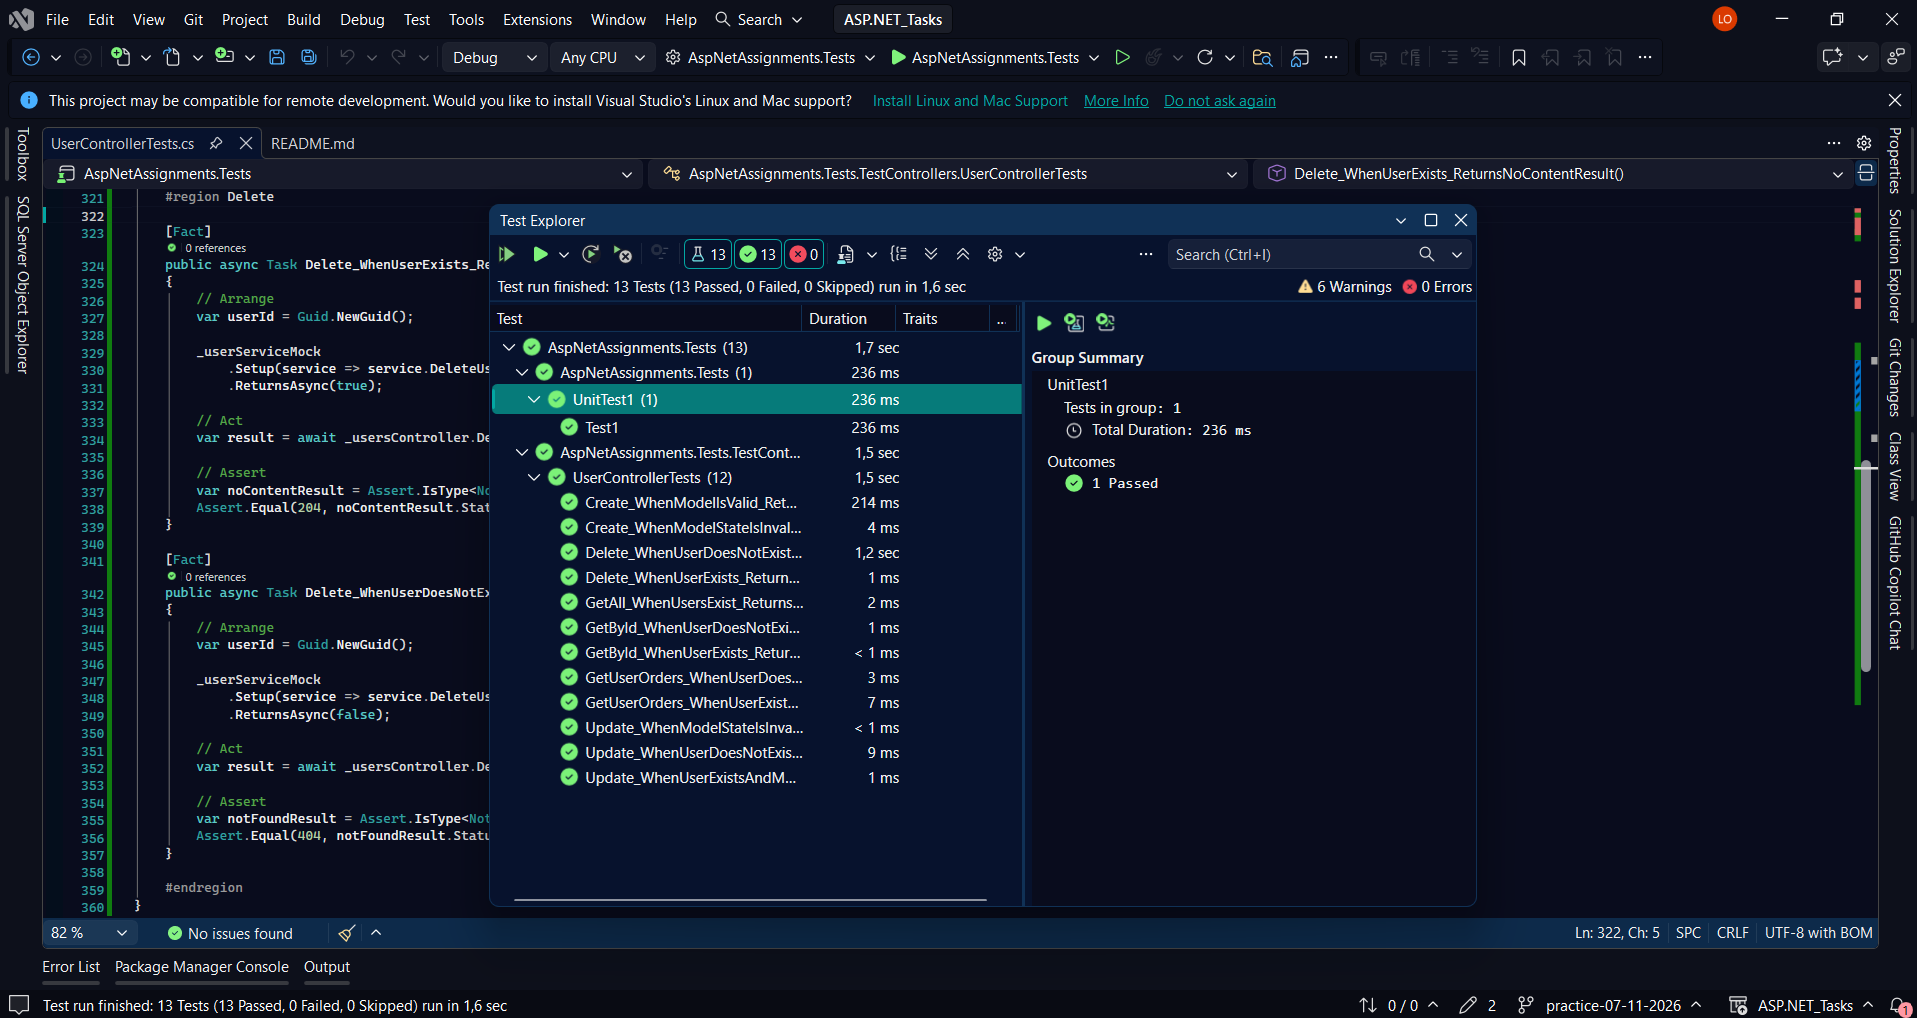
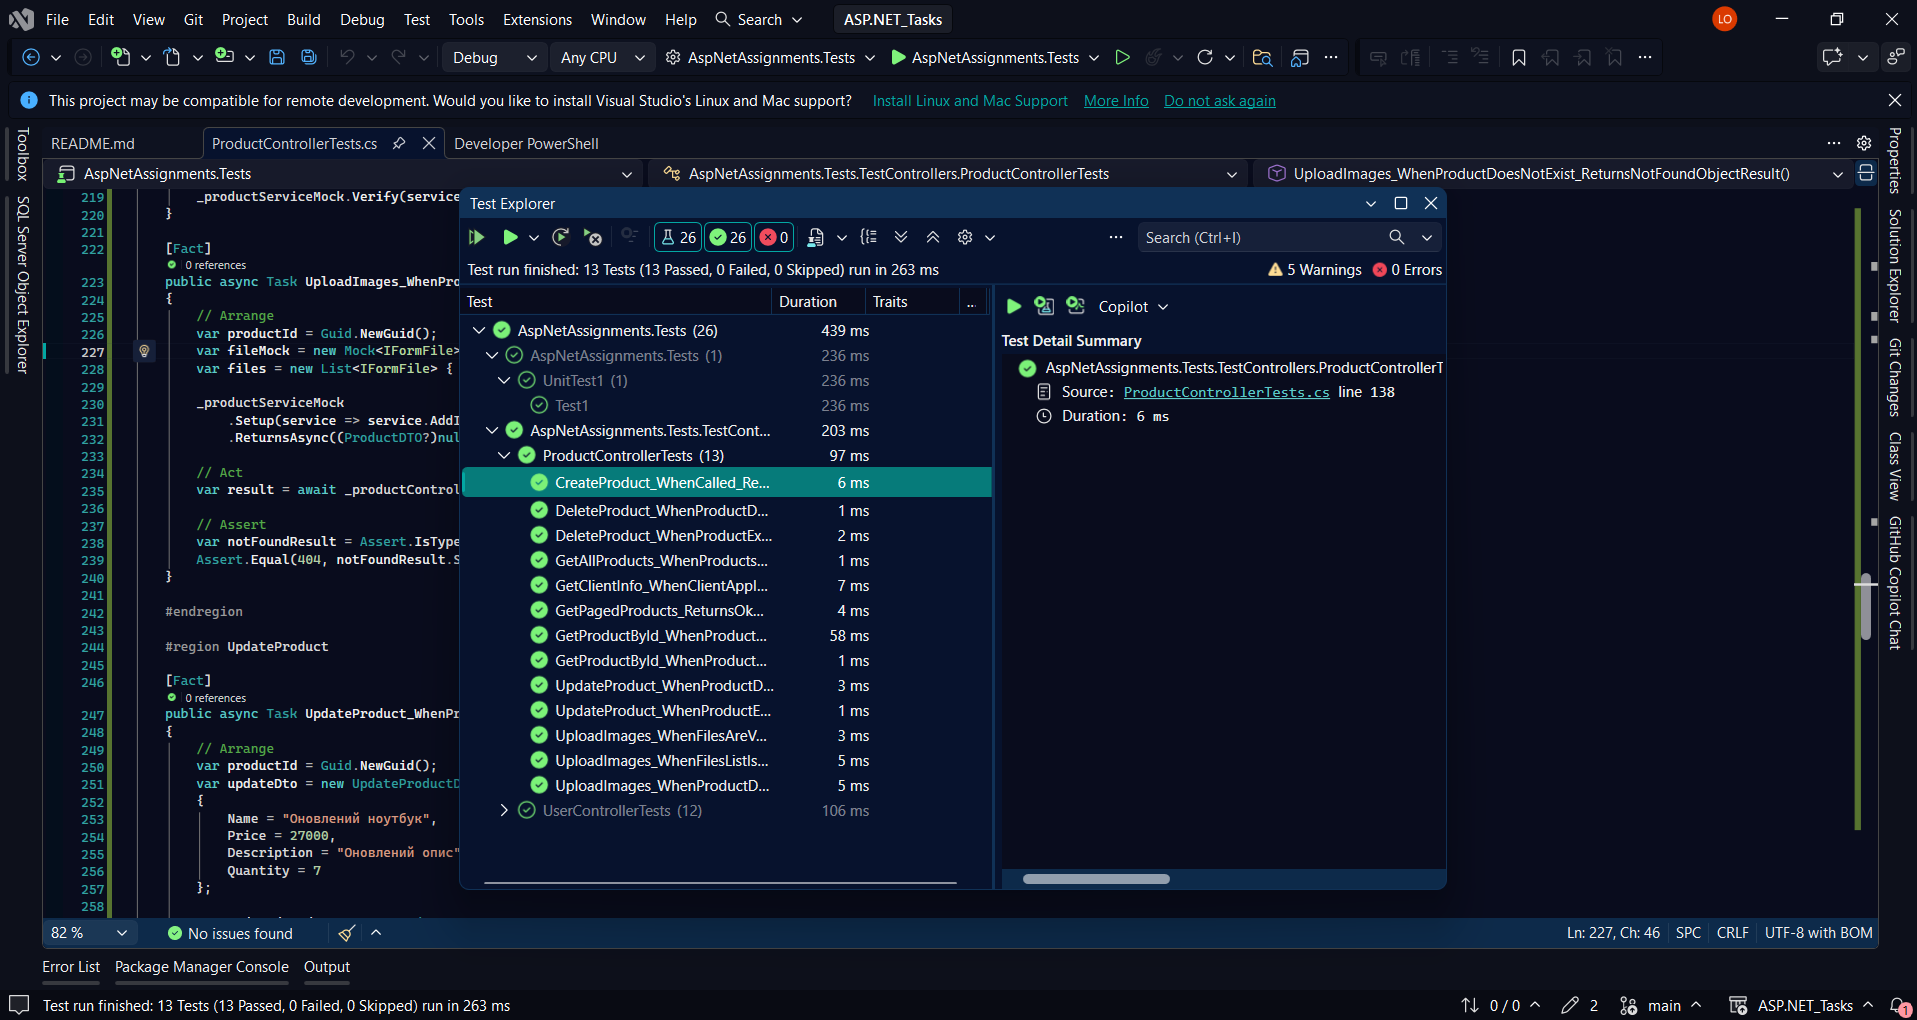
feat(hw-07-11-2026): Create unit tests for each endpoint in ProductController.

diff --git a/AspNetAssignments.Tests/TestControllers/ProductControllerTests.cs b/AspNetAssignments.Tests/TestControllers/ProductControllerTests.cs
@@ -1,0 +1,371 @@
+using AspNetAssignments.Controllers;
+using AspNetAssignments.DTOs.Pagination;
+using AspNetAssignments.DTOs.Product;
+using AspNetAssignments.Services.Abstract;
+using Microsoft.AspNetCore.Http;
+using Microsoft.AspNetCore.Mvc;
+using Moq;
+
+namespace AspNetAssignments.Tests.TestControllers;
+
+public class ProductControllerTests
+{
+    private readonly ProductController _productController;
+    private readonly Mock<IProductService> _productServiceMock;
+
+    public ProductControllerTests()
+    {
+        _productServiceMock = new Mock<IProductService>();
+        _productController = new ProductController(_productServiceMock.Object);
+    }
+
+    #region GetPagedProducts
+
+    [Fact]
+    public async Task GetPagedProducts_ReturnsOkObjectResult_WithPageResponse()
+    {
+        // Arrange
+        var queryParams = new ProductQueryParams
+        {
+            PageNumber = 1,
+            PageSize = 10
+        };
+
+        var items = new List<ProductDTO>
+        {
+            new ProductDTO { Id = Guid.NewGuid(), Name = "Ноутбук", Price = 25000, Quantity = 5 },
+            new ProductDTO { Id = Guid.NewGuid(), Name = "Мишка", Price = 800, Quantity = 20 }
+        };
+
+        var pagedResponse = new PageResponse<ProductDTO>(items, totalCount: 2, pageNumber: 1, pageSize: 10);
+
+        _productServiceMock
+            .Setup(service => service.GetPagedAsync(queryParams))
+            .ReturnsAsync(pagedResponse);
+
+        // Act
+        var result = await _productController.GetPagedProducts(queryParams);
+
+        // Assert
+        var okResult = Assert.IsType<OkObjectResult>(result);
+        Assert.Equal(200, okResult.StatusCode);
+        var returnedPage = Assert.IsType<PageResponse<ProductDTO>>(okResult.Value);
+        Assert.Equal(2, returnedPage.Items.Count);
+    }
+
+    #endregion
+
+    #region GetAllProducts
+
+    [Fact]
+    public async Task GetAllProducts_WhenProductsExist_ReturnsOkObjectResult()
+    {
+        // Arrange
+        var products = new List<ProductDTO>
+        {
+            new ProductDTO { Id = Guid.NewGuid(), Name = "Клавіатура", Price = 1500, Quantity = 12 },
+            new ProductDTO { Id = Guid.NewGuid(), Name = "Монітор", Price = 9000, Quantity = 4 }
+        };
+
+        _productServiceMock
+            .Setup(service => service.GetAllProductsAsync())
+            .ReturnsAsync(products);
+
+        // Act
+        var result = await _productController.GetAllProducts();
+
+        // Assert
+        var okResult = Assert.IsType<OkObjectResult>(result);
+        Assert.Equal(200, okResult.StatusCode);
+        var returnedProducts = Assert.IsAssignableFrom<IEnumerable<ProductDTO>>(okResult.Value);
+        Assert.Equal(2, returnedProducts.Count());
+    }
+
+    #endregion
+
+    #region GetProductById
+
+    [Fact]
+    public async Task GetProductById_WhenProductExists_ReturnsOkObjectResult()
+    {
+        // Arrange
+        var productId = Guid.NewGuid();
+        var product = new ProductDTO
+        {
+            Id = productId,
+            Name = "Навушники",
+            Price = 3200,
+            Quantity = 8
+        };
+
+        _productServiceMock
+            .Setup(service => service.GetProductByIdAsync(productId))
+            .ReturnsAsync(product);
+
+        // Act
+        var result = await _productController.GetProductById(productId);
+
+        // Assert
+        var okResult = Assert.IsType<OkObjectResult>(result);
+        Assert.Equal(200, okResult.StatusCode);
+        var returnedProduct = Assert.IsType<ProductDTO>(okResult.Value);
+        Assert.Equal(productId, returnedProduct.Id);
+    }
+
+    [Fact]
+    public async Task GetProductById_WhenProductDoesNotExist_ReturnsNotFoundObjectResult()
+    {
+        // Arrange
+        var productId = Guid.NewGuid();
+
+        _productServiceMock
+            .Setup(service => service.GetProductByIdAsync(productId))
+            .ReturnsAsync((ProductDTO?)null);
+
+        // Act
+        var result = await _productController.GetProductById(productId);
+
+        // Assert
+        var notFoundResult = Assert.IsType<NotFoundObjectResult>(result);
+        Assert.Equal(404, notFoundResult.StatusCode);
+    }
+
+    #endregion
+
+    #region CreateProduct
+
+    [Fact]
+    public async Task CreateProduct_WhenCalled_ReturnsCreatedAtActionResult()
+    {
+        // Arrange
+        var createDto = new CreateProductDTO
+        {
+            Name = "Смартфон",
+            Price = 18500,
+            Description = "Нова модель",
+            Quantity = 15
+        };
+
+        var createdProduct = new ProductDTO
+        {
+            Id = Guid.NewGuid(),
+            Name = createDto.Name,
+            Price = createDto.Price,
+            Description = createDto.Description,
+            Quantity = createDto.Quantity
+        };
+
+        _productServiceMock
+            .Setup(service => service.CreateProductAsync(createDto))
+            .ReturnsAsync(createdProduct);
+
+        // Act
+        var result = await _productController.CreateProduct(createDto);
+
+        // Assert
+        var createdResult = Assert.IsType<CreatedAtActionResult>(result);
+        Assert.Equal(201, createdResult.StatusCode);
+        Assert.Equal(nameof(ProductController.GetProductById), createdResult.ActionName);
+        var returnedProduct = Assert.IsType<ProductDTO>(createdResult.Value);
+        Assert.Equal(createdProduct.Id, returnedProduct.Id);
+    }
+
+    #endregion
+
+    #region UploadImages
+
+    [Fact]
+    public async Task UploadImages_WhenFilesAreValidAndProductExists_ReturnsOkObjectResult()
+    {
+        // Arrange
+        var productId = Guid.NewGuid();
+        var fileMock = new Mock<IFormFile>();
+        var files = new List<IFormFile> { fileMock.Object };
+
+        var updatedProduct = new ProductDTO
+        {
+            Id = productId,
+            Name = "Планшет",
+            Images = new List<string> { "/images/products/photo1.jpg" }
+        };
+
+        _productServiceMock
+            .Setup(service => service.AddImagesAsync(productId, files))
+            .ReturnsAsync(updatedProduct);
+
+        // Act
+        var result = await _productController.UploadImages(productId, files);
+
+        // Assert
+        var okResult = Assert.IsType<OkObjectResult>(result);
+        Assert.Equal(200, okResult.StatusCode);
+        var returnedProduct = Assert.IsType<ProductDTO>(okResult.Value);
+        Assert.Single(returnedProduct.Images);
+    }
+
+    [Fact]
+    public async Task UploadImages_WhenFilesListIsEmpty_ReturnsBadRequestObjectResult()
+    {
+        // Arrange
+        var productId = Guid.NewGuid();
+        var emptyFiles = new List<IFormFile>();
+
+        // Act
+        var result = await _productController.UploadImages(productId, emptyFiles);
+
+        // Assert
+        var badRequestResult = Assert.IsType<BadRequestObjectResult>(result);
+        Assert.Equal(400, badRequestResult.StatusCode);
+        _productServiceMock.Verify(service => service.AddImagesAsync(It.IsAny<Guid>(), It.IsAny<List<IFormFile>>()), Times.Never);
+    }
+
+    [Fact]
+    public async Task UploadImages_WhenProductDoesNotExist_ReturnsNotFoundObjectResult()
+    {
+        // Arrange
+        var productId = Guid.NewGuid();
+        var fileMock = new Mock<IFormFile>();
+        var files = new List<IFormFile> { fileMock.Object };
+
+        _productServiceMock
+            .Setup(service => service.AddImagesAsync(productId, files))
+            .ReturnsAsync((ProductDTO?)null);
+
+        // Act
+        var result = await _productController.UploadImages(productId, files);
+
+        // Assert
+        var notFoundResult = Assert.IsType<NotFoundObjectResult>(result);
+        Assert.Equal(404, notFoundResult.StatusCode);
+    }
+
+    #endregion
+
+    #region UpdateProduct
+
+    [Fact]
+    public async Task UpdateProduct_WhenProductExists_ReturnsOkObjectResult()
+    {
+        // Arrange
+        var productId = Guid.NewGuid();
+        var updateDto = new UpdateProductDTO
+        {
+            Name = "Оновлений ноутбук",
+            Price = 27000,
+            Description = "Оновлений опис",
+            Quantity = 7
+        };
+
+        var updatedProduct = new ProductDTO
+        {
+            Id = productId,
+            Name = updateDto.Name,
+            Price = updateDto.Price,
+            Description = updateDto.Description,
+            Quantity = updateDto.Quantity
+        };
+
+        _productServiceMock
+            .Setup(service => service.UpdateProductAsync(productId, updateDto))
+            .ReturnsAsync(updatedProduct);
+
+        // Act
+        var result = await _productController.UpdateProduct(productId, updateDto);
+
+        // Assert
+        var okResult = Assert.IsType<OkObjectResult>(result);
+        Assert.Equal(200, okResult.StatusCode);
+        var returnedProduct = Assert.IsType<ProductDTO>(okResult.Value);
+        Assert.Equal(updateDto.Name, returnedProduct.Name);
+    }
+
+    [Fact]
+    public async Task UpdateProduct_WhenProductDoesNotExist_ReturnsNotFoundObjectResult()
+    {
+        // Arrange
+        var productId = Guid.NewGuid();
+        var updateDto = new UpdateProductDTO
+        {
+            Name = "Неіснуючий товар",
+            Price = 100,
+            Quantity = 1
+        };
+
+        _productServiceMock
+            .Setup(service => service.UpdateProductAsync(productId, updateDto))
+            .ReturnsAsync((ProductDTO?)null);
+
+        // Act
+        var result = await _productController.UpdateProduct(productId, updateDto);
+
+        // Assert
+        var notFoundResult = Assert.IsType<NotFoundObjectResult>(result);
+        Assert.Equal(404, notFoundResult.StatusCode);
+    }
+
+    #endregion
+
+    #region DeleteProduct
+
+    [Fact]
+    public async Task DeleteProduct_WhenProductExists_ReturnsNoContentResult()
+    {
+        // Arrange
+        var productId = Guid.NewGuid();
+
+        _productServiceMock
+            .Setup(service => service.DeleteAsync(productId))
+            .ReturnsAsync(true);
+
+        // Act
+        var result = await _productController.DeleteProduct(productId);
+
+        // Assert
+        var noContentResult = Assert.IsType<NoContentResult>(result);
+        Assert.Equal(204, noContentResult.StatusCode);
+    }
+
+    [Fact]
+    public async Task DeleteProduct_WhenProductDoesNotExist_ReturnsNotFoundObjectResult()
+    {
+        // Arrange
+        var productId = Guid.NewGuid();
+
+        _productServiceMock
+            .Setup(service => service.DeleteAsync(productId))
+            .ReturnsAsync(false);
+
+        // Act
+        var result = await _productController.DeleteProduct(productId);
+
+        // Assert
+        var notFoundResult = Assert.IsType<NotFoundObjectResult>(result);
+        Assert.Equal(404, notFoundResult.StatusCode);
+    }
+
+    #endregion
+
+    #region GetClientInfo
+
+    [Fact]
+    public void GetClientInfo_WhenClientAppIdExistsInHttpContext_ReturnsOkObjectResult()
+    {
+        // Arrange
+        var httpContext = new DefaultHttpContext();
+        httpContext.Items["ClientAppId"] = "test-client-id";
+
+        _productController.ControllerContext = new ControllerContext
+        {
+            HttpContext = httpContext
+        };
+
+        // Act
+        var result = _productController.GetClientInfo();
+
+        // Assert
+        var okResult = Assert.IsType<OkObjectResult>(result);
+        Assert.Equal(200, okResult.StatusCode);
+    }
+
+    #endregion
+}

diff --git a/README.md b/README.md
@@ -85,7 +85,7 @@ builder.Services.AddControllers(options =>
 ### Проєкт [AspNetAssignments.Tests](AspNetAssignments.Tests):
 > * **Tests** — `using AspNetAssignments.Tests;`
 >
-> * **Controllers** — `using AspNetAssignments.Tests.Controllers;`
+> * **Controllers** — `using AspNetAssignments.Tests.TestControllers;`
 
 
 
@@ -108,7 +108,8 @@ builder.Services.AddControllers(options =>
 ---
 
 ## 🚀 Остання влита робота:
-### Практична робота за 07.11.2026 (practice-07-11-2026):
-Зробив дуже багато юніт тестів, сподіваюсь стільки вистачитьЮ було не складно, але довго, бо багато тестів)
+### Домашня робота за 07.11.2026 (hw-07-11-2026):
+Було трохи складно, але якось зробив, я не знаю як саме повинны були реалізовані юніт тести, то хробив як зрозумів,
+але можу переробити їх, якщо буде потрібно
 ### Підтвердження виконання (Скріншоти та результати тестування) для практичної або домашньої роботи:
 ![немає](images/1.png)
